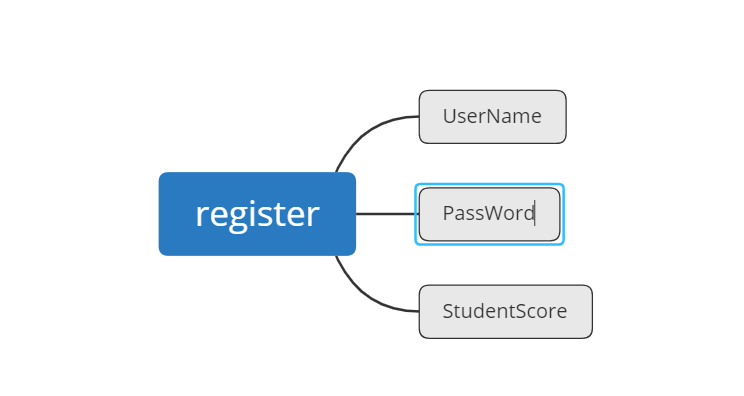
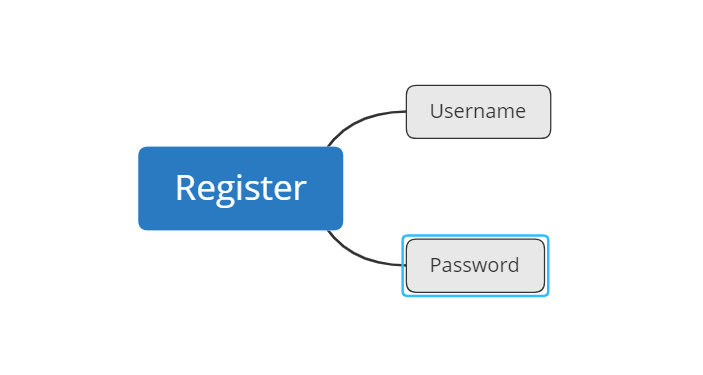
数据库模型图

diff --git a/数据库模型图.md b/数据库模型图.md
@@ -1,0 +1,19 @@
+### Class:(班级名称，班级人数，班级学生)
+![Class](img/Class.png)
+![Class](img/Class_T.jpg)
+
+### Student:(学生姓名,学生性别,学生年龄)
+![Student](img/Student.jpg)
+![Student](img/Student_T.jpg)
+
+### Score:(所在班级,学生姓名，成绩)
+![Score](img/Score.jpg)
+![Score](img/Score_T.jpg)
+
+### School:(学校名称)
+![School](img/School.jpg)
+![School](img/School_T.jpg)
+
+### Register:(用户名,密码)
+![School](img/Register.jpg)
+![School](img/Register_T.jpg)
